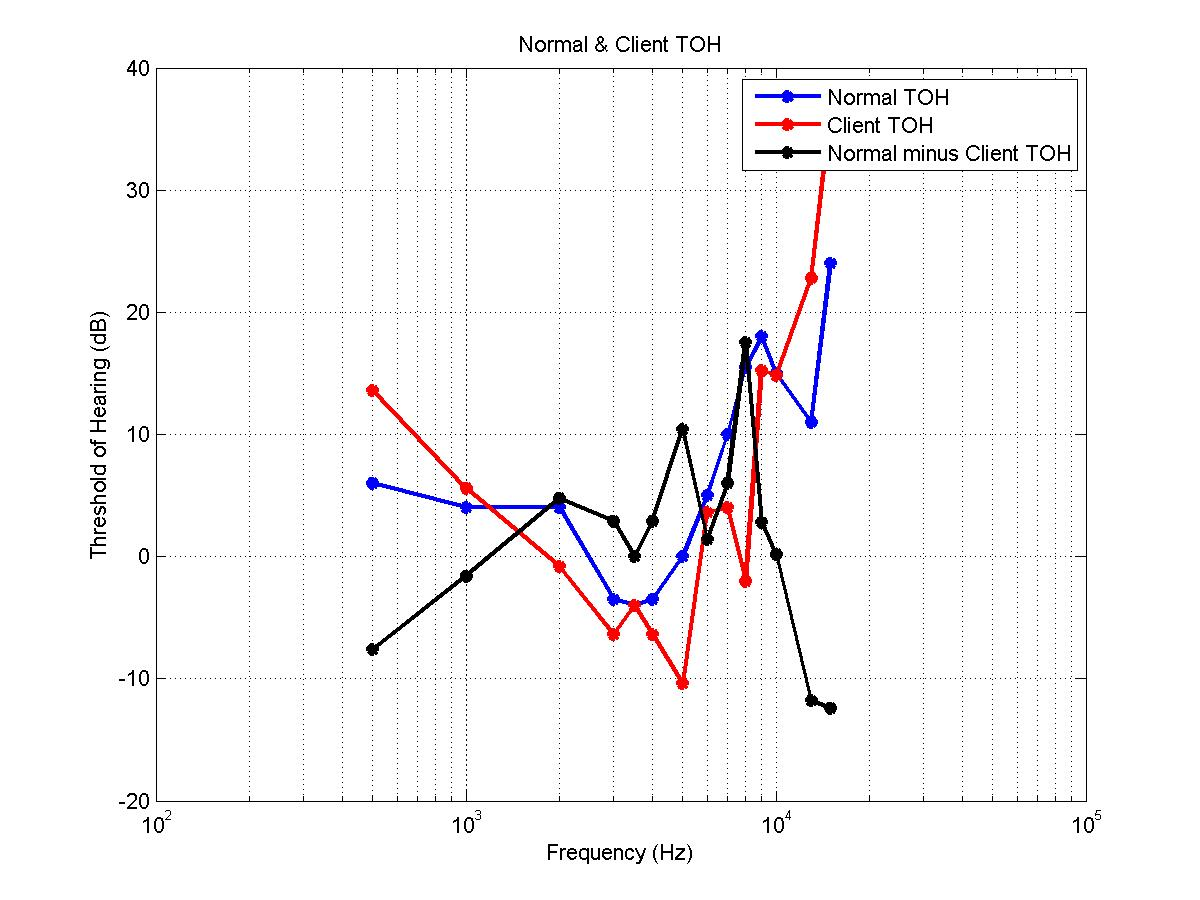
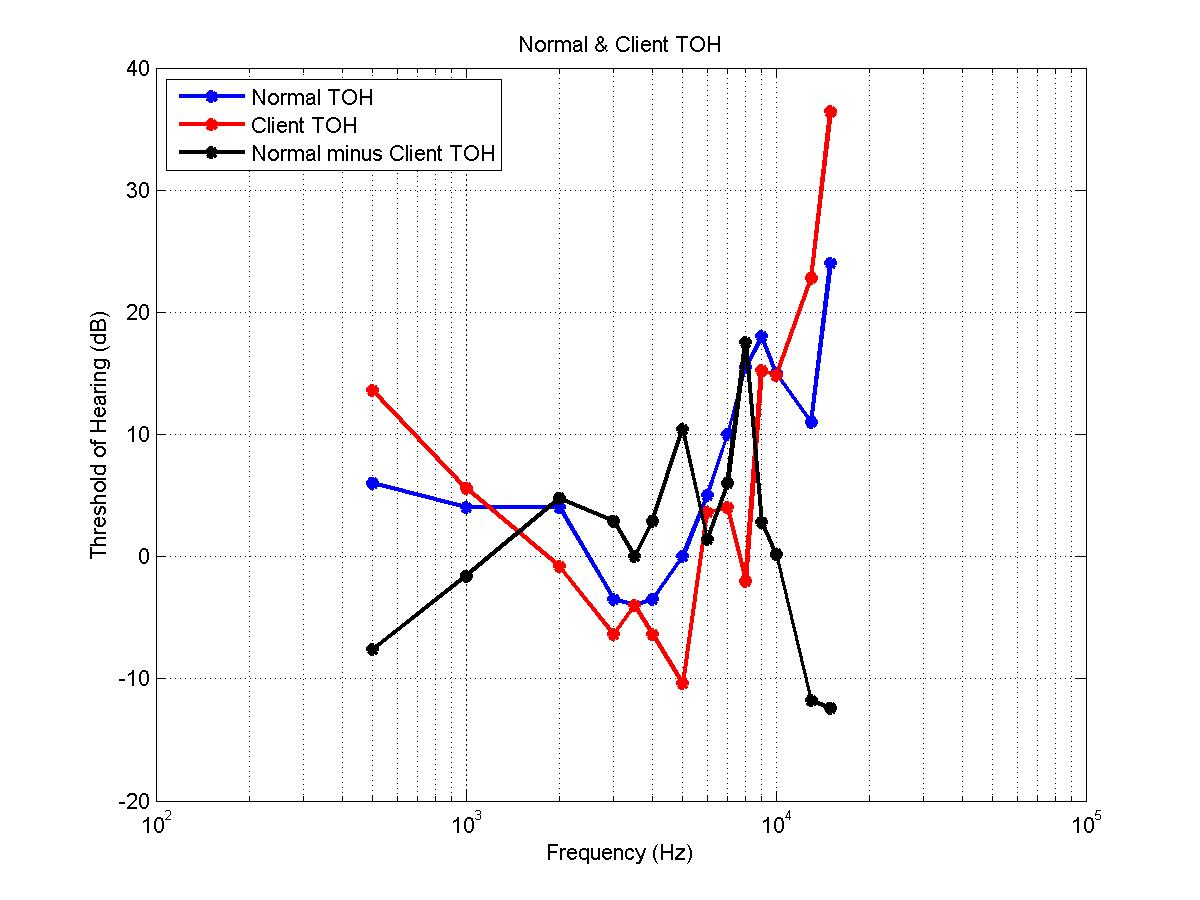
Finished writing Get_TF.m. Should be complete (has all final graphs, data, etc...)

Changed region(s): [[0.6167, 0.0933, 0.8942, 0.1867], [0.1542, 0.0933, 0.4317, 0.1867]]

diff --git a/Matlab/Get_TF.m b/Matlab/Get_TF.m
@@ -9,5 +9,20 @@ upper_bound_db = 3;
 normal_vs_client = xlsread('normal-vs-client_TOH.xls');
 
 tf = [normal_vs_client(1,:); normal_vs_client(4,:)];
-tf = [[lower_bound_freq; lower_bound_db], tf, [upper_bound_freq; upper_bound_db]];
+%tf = [[lower_bound_freq; lower_bound_db], tf, [upper_bound_freq; upper_bound_db]];
+
+f1 = figure(1)
+semilogx(tf(1,:), tf(2,:), 'k-', 'LineWidth', 2);
+title('Ideal Transfer Function');
+xlabel('Frequency (Hz)')
+ylabel('Required Gain (dB)');
+grid;
+
+%save figure
+saveas(f1, 'tf_gain.jpg');
+
+%save data
+delete('tf_gain.xls');
+xlswrite('tf_gain', tf);
+
 

diff --git a/Matlab/Normal_vs_Client.m b/Matlab/Normal_vs_Client.m
@@ -30,7 +30,7 @@ grid
 title('Normal & Client TOH');
 xlabel('Frequency (Hz)');
 ylabel('Threshold of Hearing (dB)');
-legend('Normal TOH', 'Client TOH', 'Normal minus Client TOH');
+legend('Normal TOH', 'Client TOH', 'Normal minus Client TOH', 'Location', 'northwest');
 
 
 %save plot
